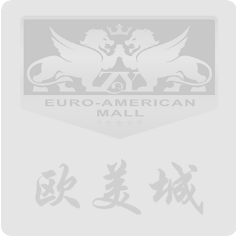
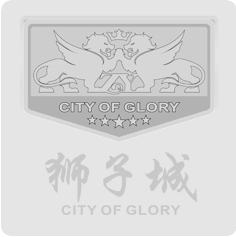
1024

diff --git a/wxapp-szc/datas/list-share.js b/wxapp-szc/datas/list-share.js
@@ -1,0 +1,41 @@
+let list_share = [
+  {
+    images: '1_13_07_01',
+    title: '【惠州狮子城·活动】藏在星空下的新晋烤吧，颜值美味兼备......',
+    price: '108.00',
+    money: '10.00'
+  },
+  {
+    images: '1_13_07_03',
+    title: '【惠州狮子城·活动】藏在星空下的新晋烤吧，颜值美味兼备......',
+    price: '108.00',
+    money: '10.00'
+  },
+  {
+    images: '1_13_07_03',
+    title: '【惠州狮子城·活动】藏在星空下的新晋烤吧，颜值美味兼备......',
+    price: '108.00',
+    money: '10.00'
+  },
+  {
+    images: '1_13_07_03',
+    title: '【惠州狮子城·活动】藏在星空下的新晋烤吧，颜值美味兼备......',
+    price: '108.00',
+    money: '10.00'
+  },
+  {
+    images: '1_13_07_03',
+    title: '【惠州狮子城·活动】藏在星空下的新晋烤吧，颜值美味兼备......',
+    price: '108.00',
+    money: '10.00'
+  },
+  {
+    images: '1_13_07_03',
+    title: '【惠州狮子城·活动】藏在星空下的新晋烤吧，颜值美味兼备......',
+    price: '108.00',
+    money: '10.00'
+  }
+];
+module.exports = {
+  list_share
+};

diff --git a/wxapp-szc/pages/template/share/index.js b/wxapp-szc/pages/template/share/index.js
@@ -1,20 +1,18 @@
-// pages/share/share.js
-let datas = require('../../datas/list-share');
-
+// pages/template/share/index.js
 Page({
 
   /**
    * 页面的初始数据
    */
   data: {
-    datas:{}
+
   },
 
   /**
    * 生命周期函数--监听页面加载
    */
   onLoad: function (options) {
-    this.setData({ datas: datas.list_share })
+
   },
 
   /**

diff --git a/wxapp-szc/pages/list/list.js b/wxapp-szc/pages/list/list.js
@@ -9,7 +9,7 @@ Page({
   data: {
     datas: [],
 
-    images: ['01', '02', '03', '04'],
+    images: ['01', '02'],
     indicatorDots: true,
     vertical: false,
     autoplay: false,
